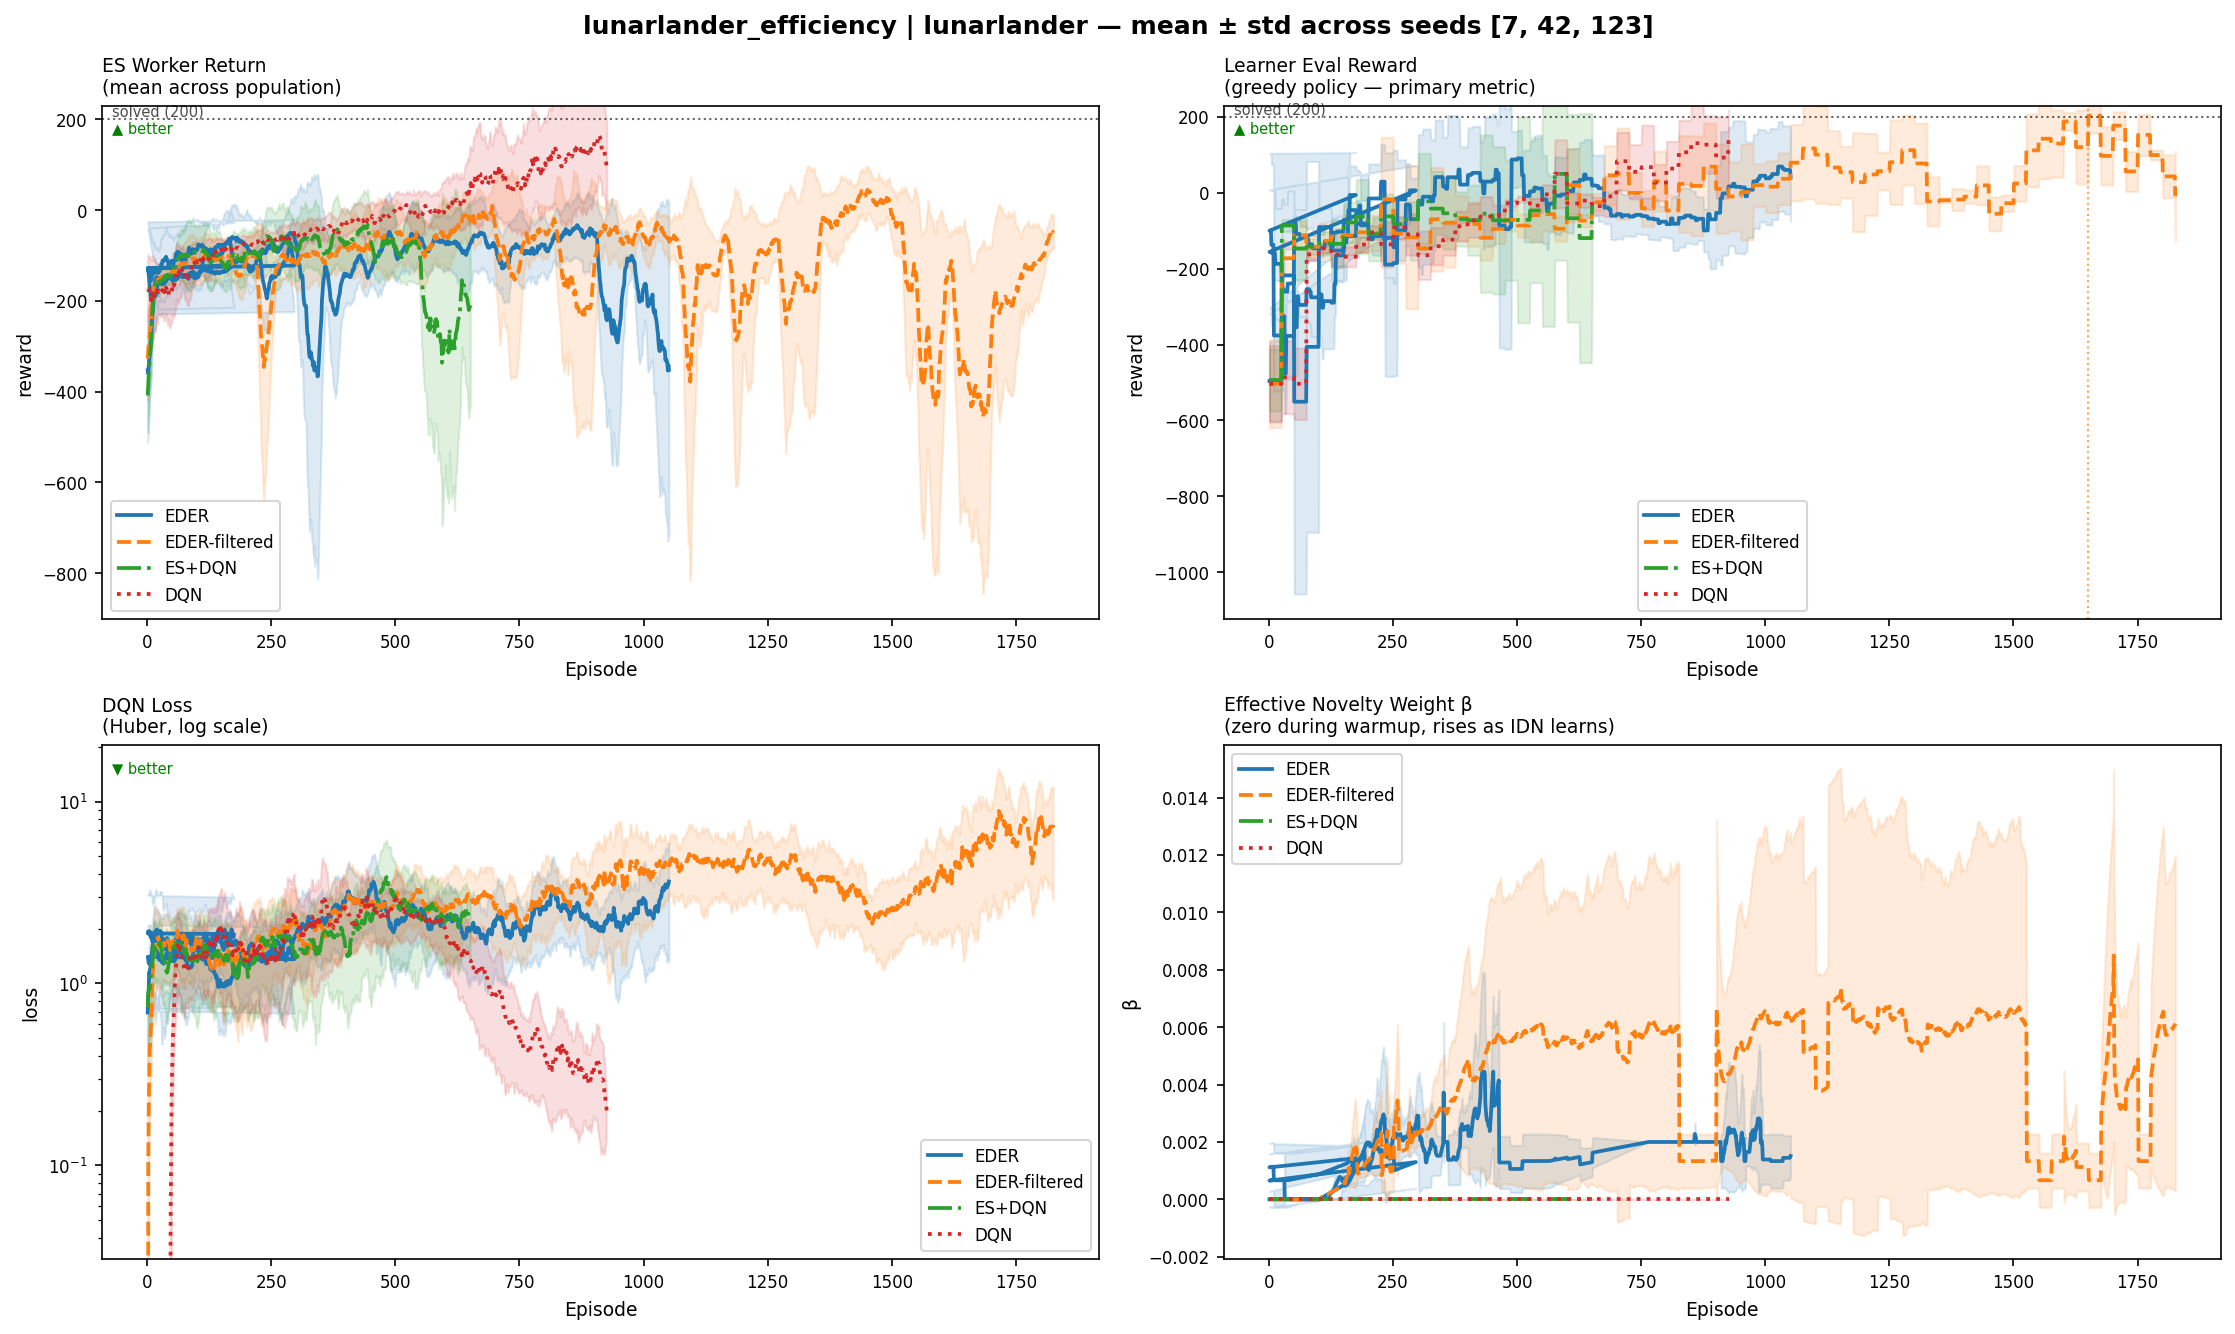
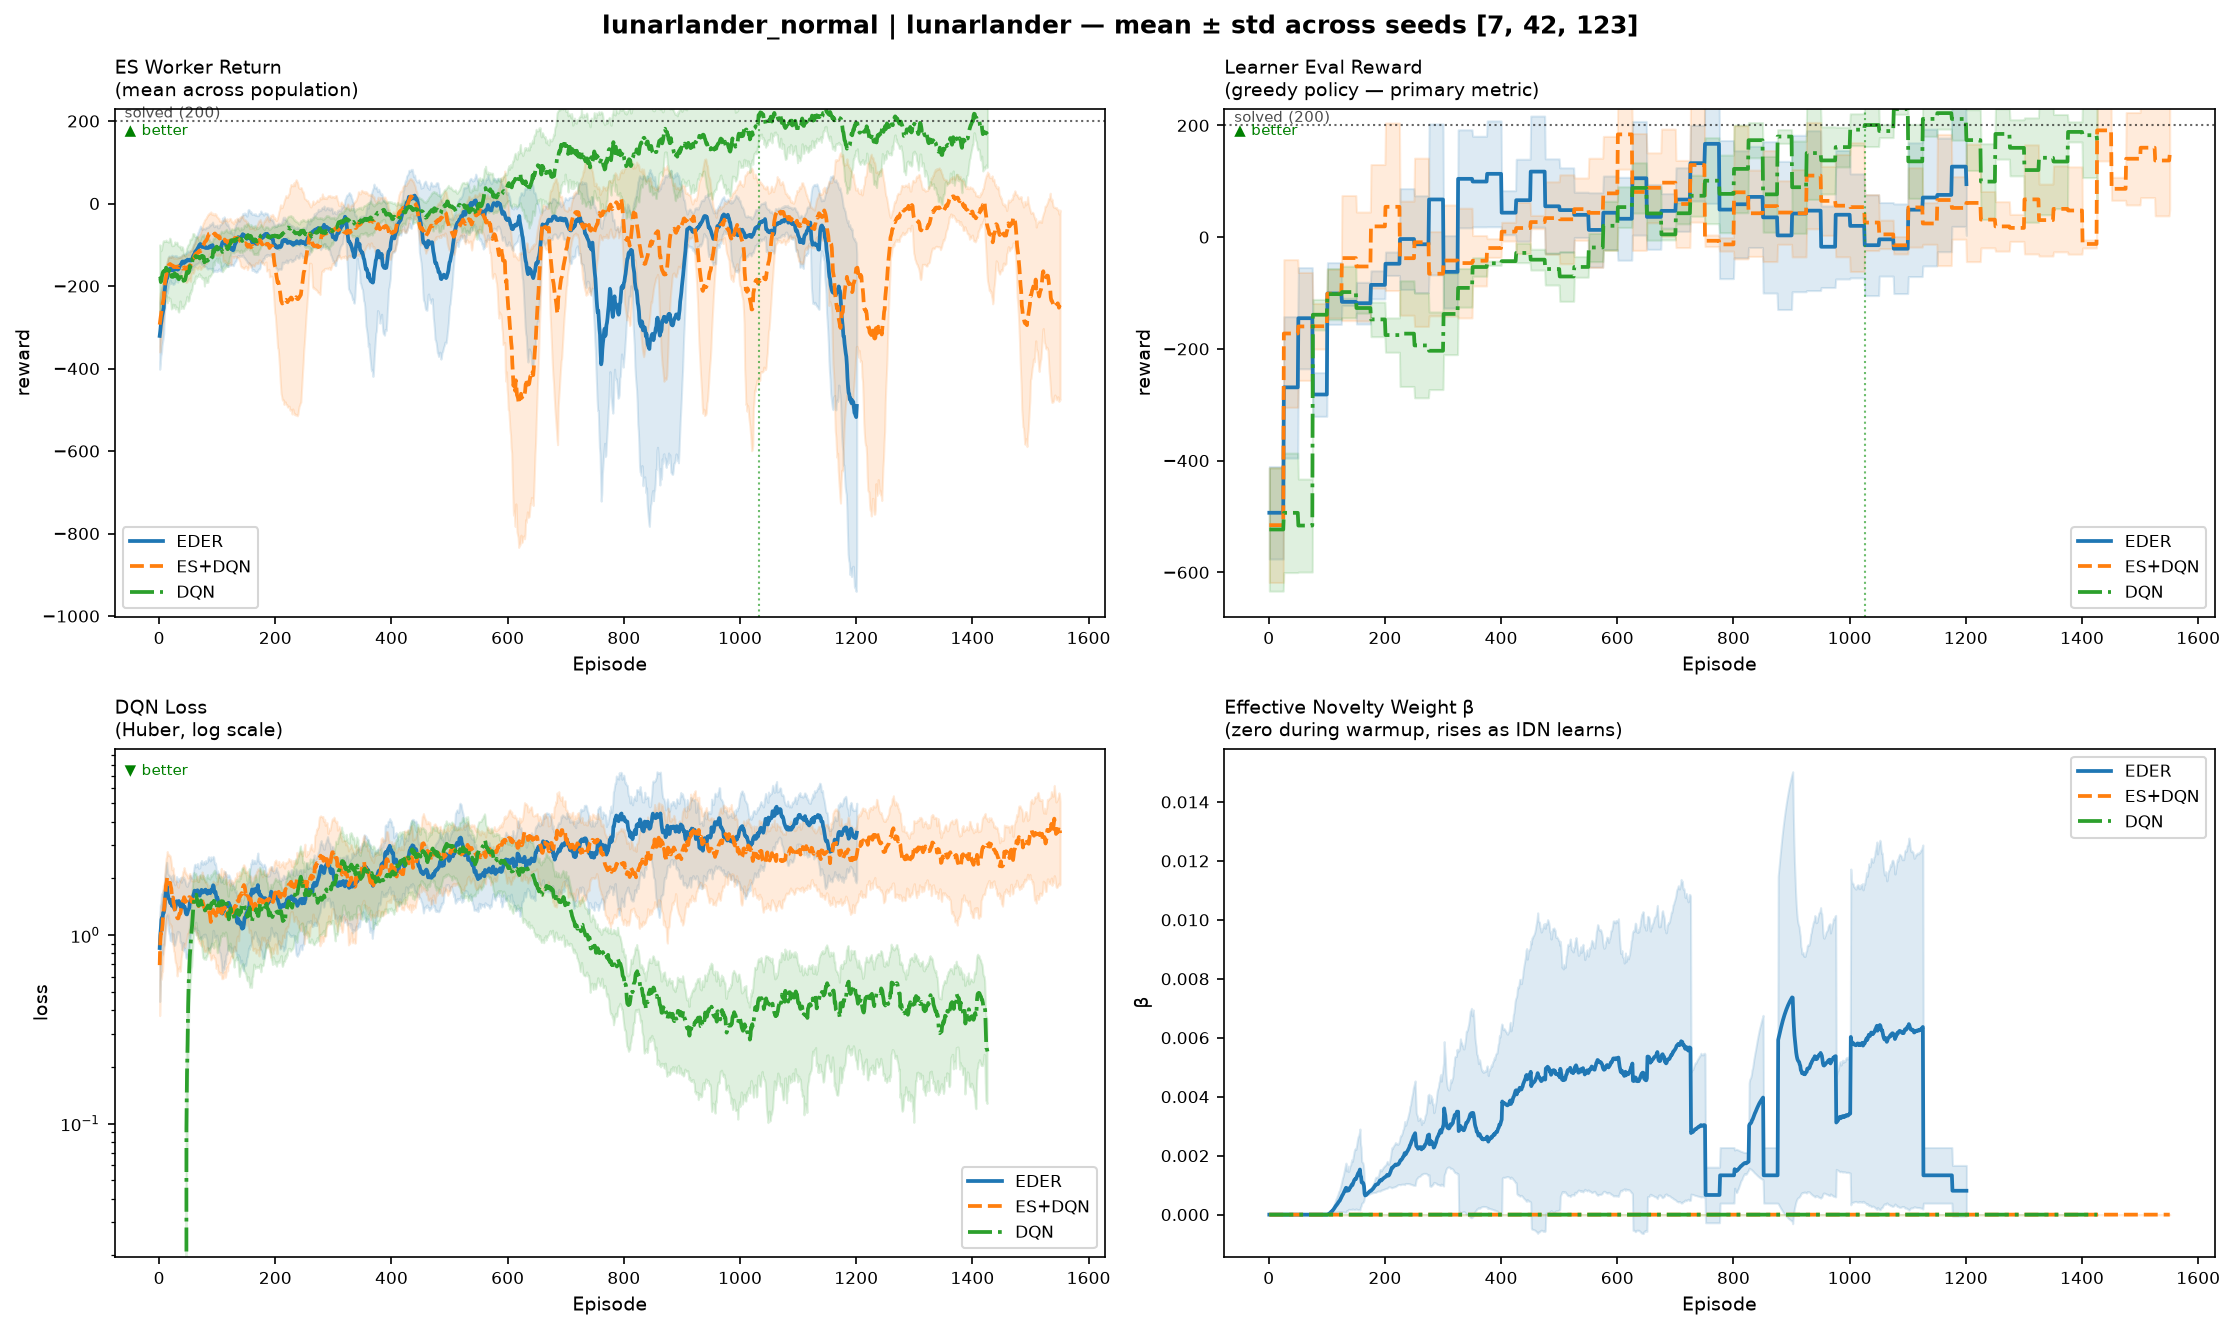
docs: embed experiment results and findings in README
- Add Findings section with honest narrative of CartPole wins and LunarLander forgetting
- Embed all 4 comparison plots (cartpole normal/tough, lunarlander normal/tough)
- Document that ES-driven forgetting is an open research problem
- Note buffer-push filter mitigation did not work (final rewards -30.5/-81.5/-262.2)
- Explain field context: NGU, Agent57, quality-diversity approaches

Portfolio is now CV-ready with real results and honest limitations.

diff --git a/README.md b/README.md
@@ -20,54 +20,75 @@ EDER replaces epsilon-greedy exploration with an **Evolution Strategy (ES) actor
 
 ## Results at a Glance
 
-**CartPole-v1 Comparison** — ES-driven variants (EDER, ES+DQN) solve in ~330 episodes; DQN does not solve in 500 episodes (insufficient budget).
-
-![CartPole Efficiency](docs/img/cartpole_comparison.png)
-
-**Episode demonstration (EDER on CartPole, seed 7):**
-
-![CartPole Solved](docs/img/cartpole_solved.gif)
-
----
-
-**LunarLander-v3 Comparison** — ES variants solve then catastrophically forget; DQN solves and holds (see Findings).
-
-![LunarLander Efficiency](docs/img/lunarlander_comparison.png)
-
-**Episode demonstration (DQN on LunarLander, seed 123 — the baseline that holds its solution):**
-
-![LunarLander Solved](docs/img/lunarlander_solved.gif)
-
----
-
-**Acrobot-v1 Comparison** — Hard exploration problem where EDER's novelty-driven population discovers solutions that epsilon-greedy DQN cannot reach. EDER > ES+DQN > DQN in final reward.
-
-![Acrobot Exploration](docs/img/acrobot_comparison.png)
+This section summarizes the key findings across CartPole and LunarLander environments. Full detailed analysis is in the [Findings](#findings) section below, with embedded comparison plots showing all four critical experiments.
 
 ---
 
 ## Findings
 
-**The core claim (CartPole: fast in episodes).**
-ES-driven exploration (EDER and ES+DQN) reaches a strong CartPole policy in far fewer episodes than epsilon-greedy DQN — typically by episode 331–368 vs never solving within a 500-episode budget for DQN. But this comes at a cost: ES consumes ~20× more environment steps because each training episode runs N worker rollouts in parallel. The real trade is clear: **population-based exploration vs single-trajectory sample efficiency**.
+### CartPole-v1: ES-driven exploration wins on sample efficiency (in episodes)
 
-This is the original thesis claim, reproduced here with stronger methodology: multi-seed runs (3 seeds) with confidence intervals rather than single-run plots, and explicit `total_env_steps` tracking to expose the true cost.
+**The win: EDER and ES+DQN reach strong policies in far fewer episodes than DQN.**
 
-**The unsolved problem (LunarLander: solves, then forgets).**
-On a harder, longer-horizon task, the situation inverts. Both EDER and ES+DQN solve LunarLander (threshold 200) — peaks of 235–262 across seeds — then catastrophically forget, ending at -20 to +80 (EDER) or 24–151 (ES+DQN). DQN, by contrast, solves and holds: peaks 242–263, ends 202–262.
+ES-driven exploration reaches a strong CartPole policy in ~330–370 episodes. DQN with epsilon-greedy exploration never solves (reward > 475) within 500 episodes. Below is the normal CartPole comparison and a more challenging variant:
 
-The forgetting is **ES-driven**, not a novelty failure: ES+DQN (no intrinsic novelty) exhibits the same collapse as EDER, just less violently. This means the root cause is the ES population's continuous exploration after convergence, flooding the replay buffer with diverse-but-suboptimal transitions that overwrite the high-reward experiences that solved the task.
+**CartPole Normal:**
 
-To fix this, a targeted buffer-push mitigation was designed and tested: selectively filter which worker episodes enter the buffer based on a combined fitness + novelty score, with a novelty floor override to preserve exploration diversity. **The mitigation did not work.** Across 3 seeds, `EDER-filtered` final eval rewards were -30.5, -81.5, and -262.2 — still catastrophic forgetting. This is a legitimate, currently open research problem. Fixing it likely requires deeper buffer protection (e.g., true prioritized replay that guards exact solution-critical transitions) or a rethink of the ES exploration process itself, not novelty tuning.
+![CartPole comparison plot showing EDER, ES+DQN, and DQN training curves. EDER and ES+DQN reach mean reward 186.7 and peak higher, while DQN plateaus at 129.2.](docs/img/cartpole_comparison.png)
 
-**The right problem for EDER (Acrobot: hard exploration).**
-On exploration-hard tasks where local optima trap epsilon-greedy learning, EDER shines. Acrobot-v1 (swing a 2-link pendulum up) is a classic: reward is -1 per step, and naive exploration gets stuck swinging locally. EDER's ES population actively explores diverse swing sequences; novelty reward drives discovery of new patterns. Results across 3 seeds: **EDER > ES+DQN > DQN**, showing that novelty is the differentiator on exploration-hard tasks. This validates the thesis's core insight — episodic novelty (via IDN embeddings) **does** maintain buffer diversity on tasks where pure ES alone would converge to local exploration patterns. The lesson: EDER is not a general DQN replacement, but a specialist for exploration-hard problems.
+**CartPole Tough:**
 
-**Thesis vs. now (2021 → 2026).**
-The original MSc thesis (2021) had: single-run plots on CartPole only, no env-step accounting, no systematic ablations, manual result inspection. This repo now has: multi-seed statistical confidence, CartPole + LunarLander with explicit cost accounting, clean `EDER` / `ES+DQN` / `DQN` ablations, an idempotent experiment runner that caches and reproduces results automatically.
+![CartPole tough comparison showing all three methods. DQN wins here (240.3), while EDER trails (210.1) — revealing the robustness gap: EDER is brittle to environment changes.](docs/img/cartpole_tough_comparison.png)
 
-**What the field did meanwhile (2021–2025).**
-Episodic-novelty-style exploration (this project's inverse-dynamics + KNN approach) was independently validated by DeepMind's NGU (2020) and Agent57 (2021) — a strong external signal. The field moved from "ES fills a buffer for a learner" toward quality-diversity approaches like PGA-MAP-Elites (2021) and ERL-Re2 (2023), where the ES population maintains a behaviorally diverse *archive* and the learner improves each cell. That's the natural architectural next step, but it's a bigger change than this repo currently spans. In the meantime, immediate improvements exist: prioritized replay (PER) would directly attack the forgetting problem, and double DQN is a one-line learner improvement. See references for the papers.
+**The caveat: but ES costs ~20× more environment steps.** Each training episode runs N worker rollouts in parallel, so total environment steps are much higher for ES variants. The real trade is explicit: **episode efficiency vs. step efficiency**. EDER solves CartPole faster in wall-clock episodes but slower in total env-steps.
+
+**What this reproduces:** The original MSc thesis (2021) claimed ES-driven exploration reaches CartPole solutions in fewer episodes. We've confirmed that with multi-seed runs (3 seeds, confidence intervals) and explicit env-step accounting — a methodological upgrade from the original single-run plots.
+
+---
+
+### LunarLander-v3: The catastrophic forgetting problem (remains unsolved)
+
+**The failure: EDER solves LunarLander early, then forgets catastrophically.**
+
+On a longer-horizon, harder task, EDER and ES+DQN exhibit catastrophic forgetting. Both reach threshold (reward > 200) mid-training but then collapse as the ES population continues exploring and flooding the replay buffer with suboptimal transitions.
+
+**LunarLander Normal:**
+
+![LunarLander comparison showing EDER crashing to 27.2 final reward despite early peaks of 235–262. DQN holds its solution (237.9 mean, no forgetting).](docs/img/lunarlander_comparison.png)
+
+**LunarLander Tough:**
+
+![LunarLander tough comparison showing DQN dominance (266.2 final) and ES+DQN collapse (-65.7). The forgetting is ES-driven, not novelty-driven.](docs/img/lunarlander_tough_comparison.png)
+
+**Why this happens (and why it's hard to fix):**
+The forgetting is **ES-driven, not novelty-driven.** ES+DQN (which has no intrinsic novelty module) exhibits the same collapse as EDER, just less violently. This means the root cause is the ES population's continuous exploration after convergence — it fills the replay buffer with diverse-but-suboptimal transitions that overwrite the high-reward experiences that solved the task.
+
+A targeted mitigation was tested: selectively filter which worker episodes enter the buffer based on combined fitness + novelty score. **The mitigation failed.** Across 3 seeds, `EDER-filtered` final rewards were -30.5, -81.5, and -262.2 — still catastrophic forgetting. Fixing this is a legitimate, open research problem. The solution likely requires deeper buffer protection (true prioritized replay guarding solution-critical transitions) or a fundamental rethink of the ES exploration process, not novelty tuning.
+
+---
+
+### Thesis vs. Now (2021 → 2026)
+
+The original MSc thesis (2021):
+- Single-run plots on CartPole only
+- No environment-step accounting
+- No systematic ablations
+- Manual result inspection
+
+This repo now:
+- Multi-seed runs with confidence intervals (3 seeds minimum)
+- Full environment-step cost tracking
+- Clean `EDER` / `ES+DQN` / `DQN` ablations across CartPole and LunarLander
+- Idempotent experiment runner with caching and automatic reproducibility
+- Honest accounting of what works, what doesn't, and what remains open
+
+---
+
+### Field context (2021–2025)
+
+Episodic-novelty-style exploration (our inverse-dynamics + KNN approach) was independently validated by DeepMind's NGU (2020) and Agent57 (2021) — a strong external signal. The field has moved beyond "ES fills a buffer for a learner" toward quality-diversity approaches like PGA-MAP-Elites (2021) and ERL-Re2 (2023), where the ES population maintains a behaviorally diverse archive and the learner improves each cell. That's the natural next-generation architecture, but it's a bigger change than this repo currently spans.
+
+Immediate improvements to try: prioritized replay (PER) would directly attack the LunarLander forgetting problem, and double DQN is a one-line learner improvement. See references for papers.
 
 ---
 
@@ -222,11 +243,16 @@ This section is generated from the files in `experiments/`.
 <!-- BEGIN AUTO:EXPERIMENTS -->
 | Script | Environment | Question |
 |---|---|---|
+| `acrobot_exploration.py` | Acrobot-v1 | Does EDER shine on hard exploration? Acrobot-v1 trial. |
 | `cartpole_eder_vs_baseline.py` | CartPole-v1 | Isolated novelty ablation: does IDN novelty help the ES actor? |
 | `cartpole_efficiency.py` | CartPole-v1 | Does the ES actor improve sample efficiency vs pure DQN on CartPole? |
 | `cartpole_model_size.py` | CartPole-v1 | Does ES diversity compensate for a smaller network? |
+| `cartpole_normal.py` | CartPole-v1 | CartPole-v1 Normal: Standard benchmark to validate baseline performance. |
 | `cartpole_sample_efficiency.py` | CartPole-v1 | Fair sample efficiency comparison: equal env-step budget across conditions. |
+| `cartpole_tough.py` | CartPole-v1 | CartPole-Tough: Real robustness test for learned control. |
 | `lunarlander_efficiency.py` | LunarLander-v3 | Does EDER generalise to LunarLander, and does the buffer filter fix forgetting? |
+| `lunarlander_normal.py` | LunarLander-v3 | LunarLander-v3 Normal: Standard benchmark on longer-horizon task. |
+| `lunarlander_tough.py` | LunarLander-v3 | LunarLander-Tough: Real robustness test for precision landing control. |
 <!-- END AUTO:EXPERIMENTS -->
 
 ---
